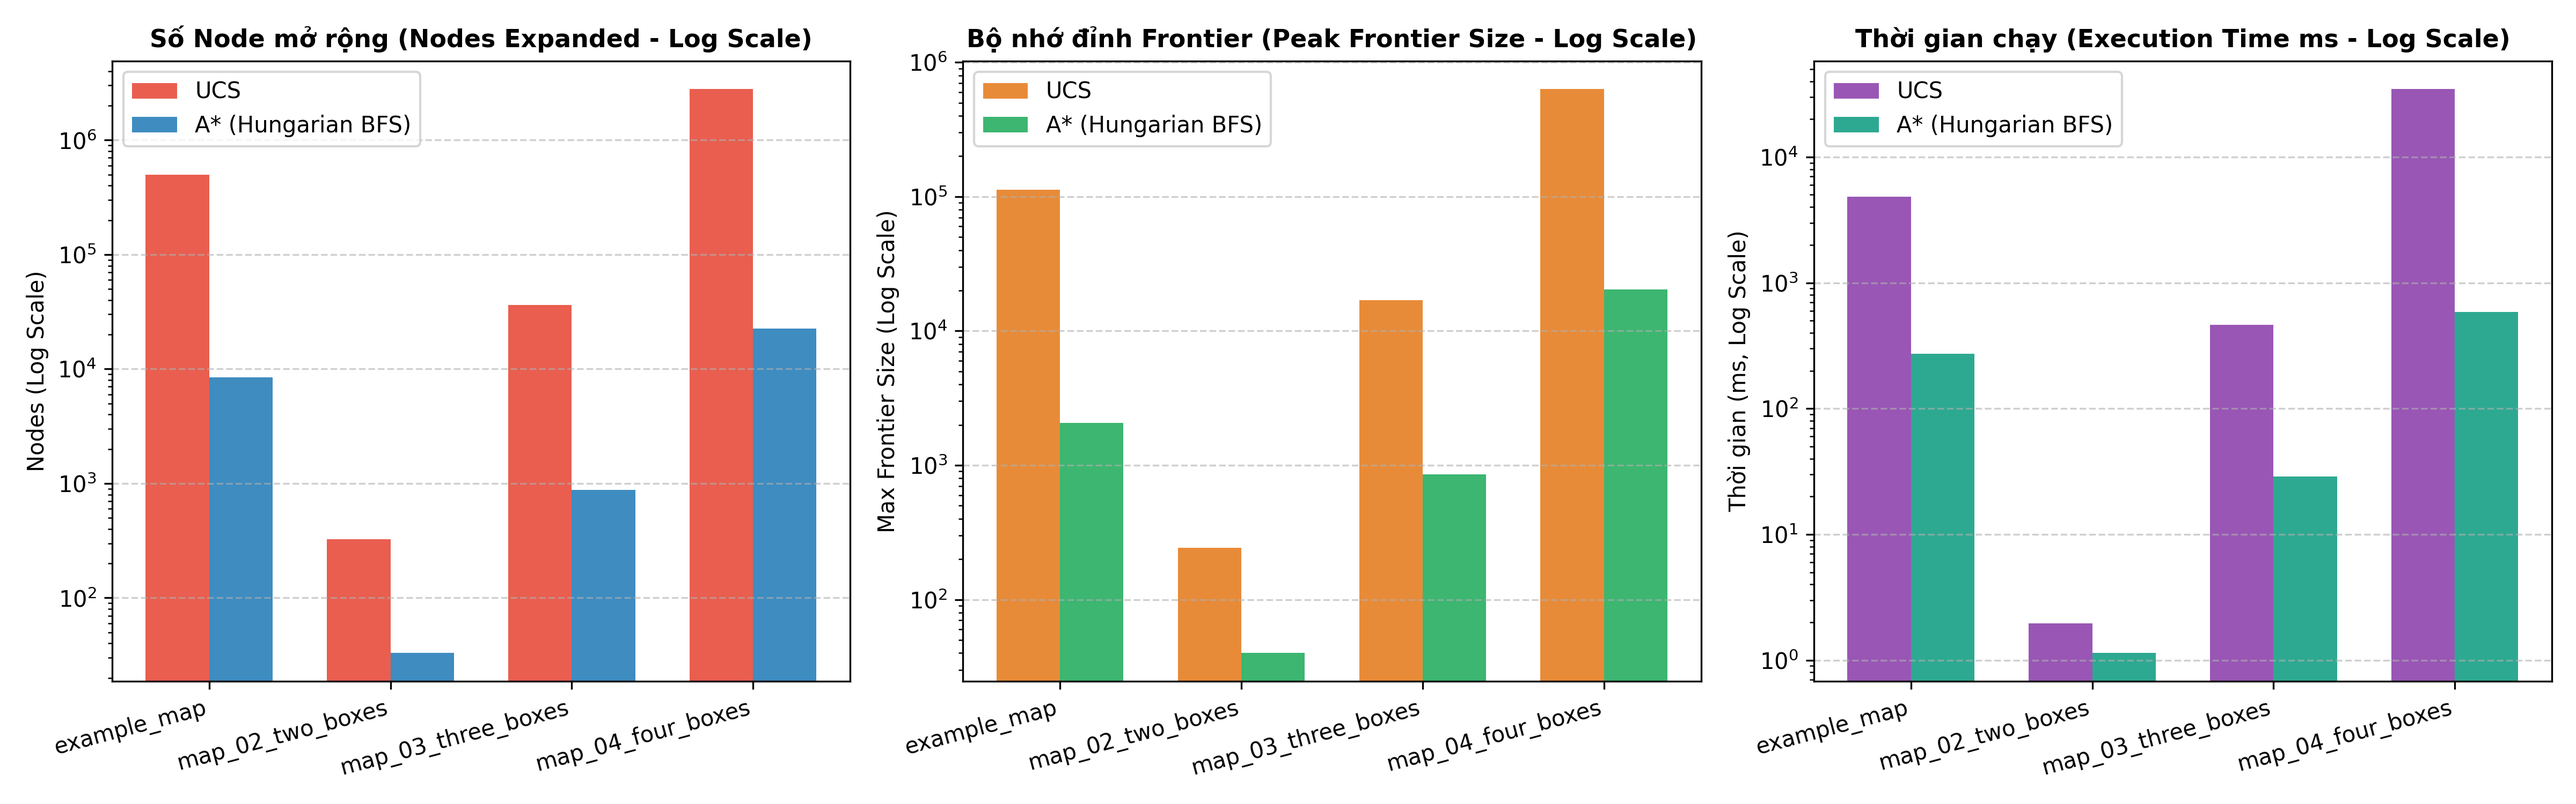
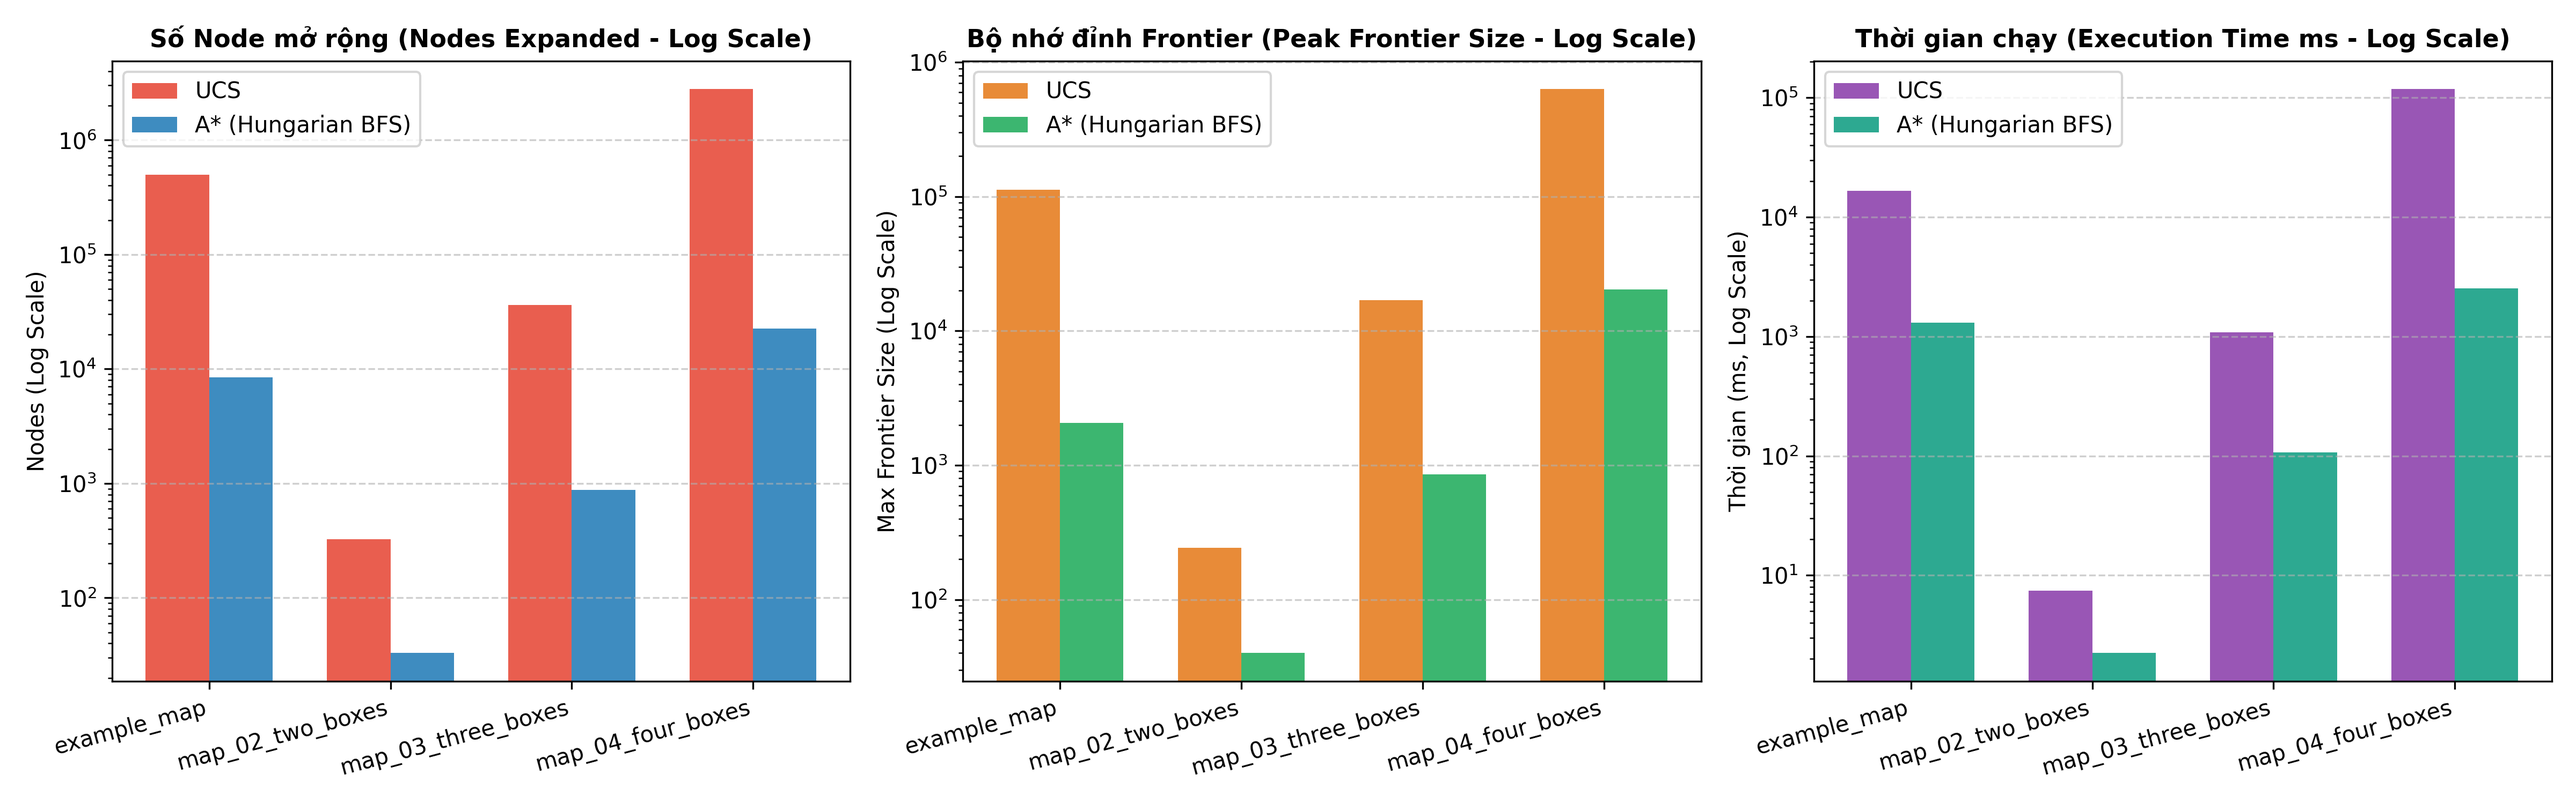
feat: add benchmark and heuristic verification scripts with initial results and chart

diff --git a/experiments/benchmark.py b/experiments/benchmark.py
@@ -42,7 +42,7 @@ def run_benchmark(map_files=None):
         candidate_files = []
         if os.path.exists(maps_dir):
             for fname in sorted(os.listdir(maps_dir)):
-                if fname.endswith('.txt'):
+                if fname.endswith('.txt') and not fname.startswith('competitive'):
                     fpath = os.path.join(maps_dir, fname)
                     if os.path.getsize(fpath) > 0:
                         candidate_files.append(fpath)

diff --git a/experiments/verify_heuristic.py b/experiments/verify_heuristic.py
@@ -167,7 +167,7 @@ def run_all_verifications():
     candidate_files = []
     if os.path.exists(maps_dir):
         for fname in sorted(os.listdir(maps_dir)):
-            if fname.endswith('.txt'):
+            if fname.endswith('.txt') and not fname.startswith('competitive'):
                 fpath = os.path.join(maps_dir, fname)
                 if os.path.getsize(fpath) > 0:
                     candidate_files.append(fpath)
